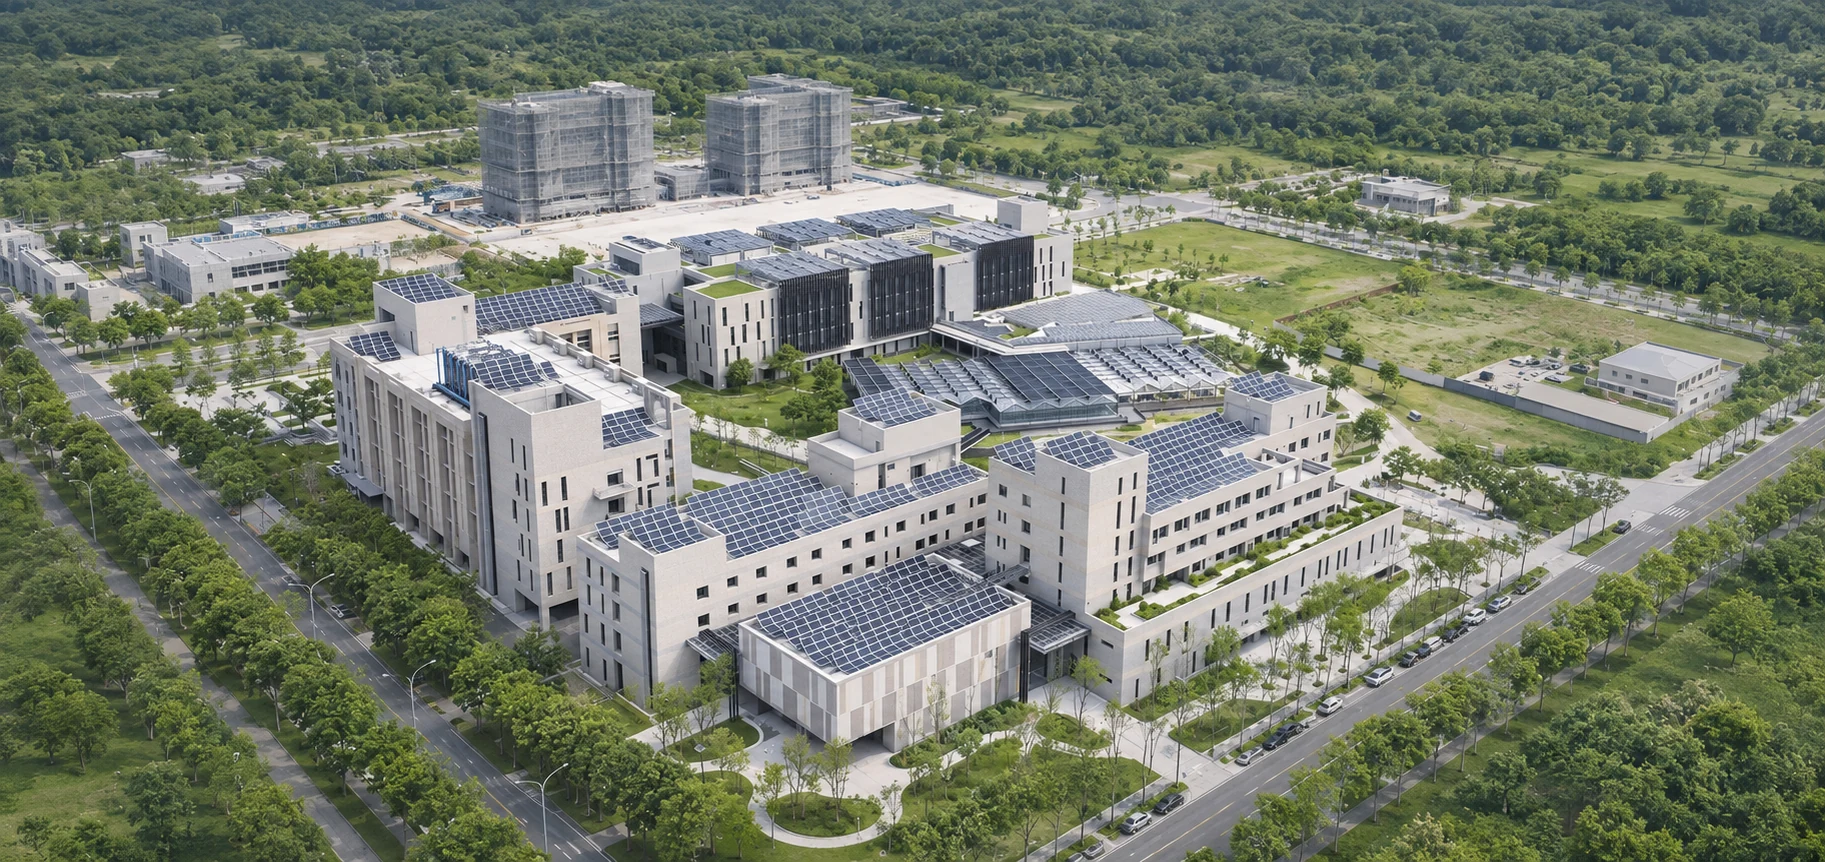
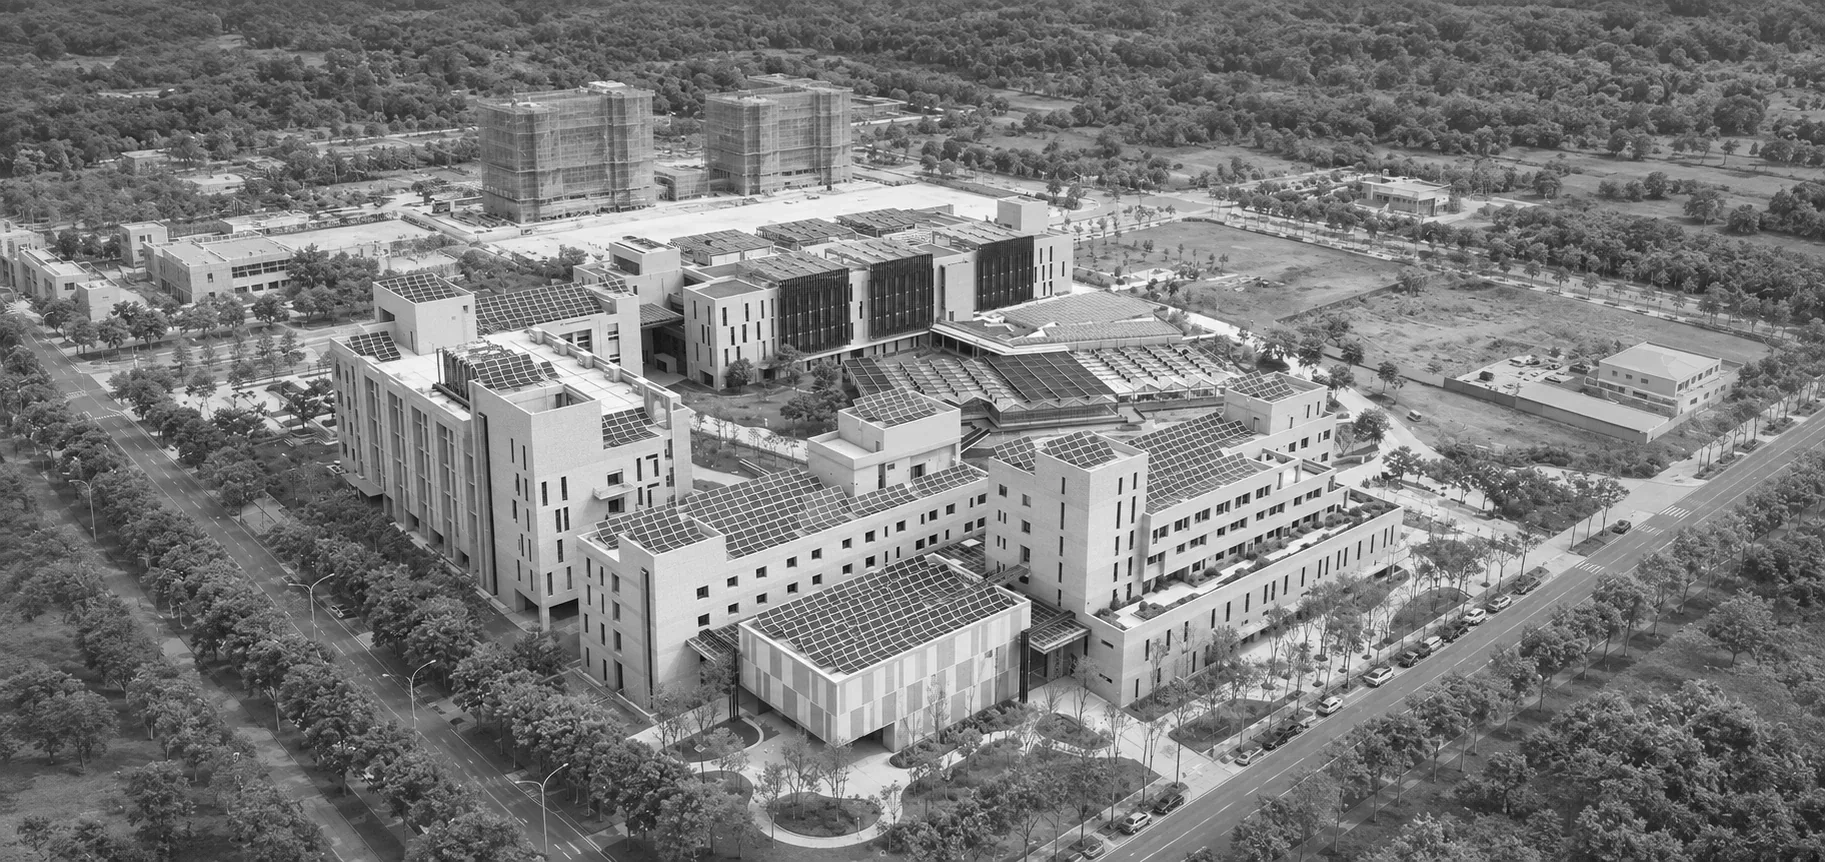
content: convert venue campus map to grayscale

diff --git a/README.md b/README.md
@@ -14,4 +14,4 @@ https://qracon.entangletech.tw/2026/
 
 ## 院區圖素材
 
-- `public/images/south-campus-layout.webp` 為中央研究院南院服務處提供的院區配置圖；`public/images/south-campus-map-redrawn.webp` 是參照該圖製作的示意重繪。素材依[南院服務處政府網站資料開放宣告](https://dscs.sinica.edu.tw/declaration)使用，來源資訊保留於此專案文件。
+- `public/images/south-campus-layout.webp` 為中央研究院南院服務處提供的院區配置圖；`public/images/south-campus-map-redrawn.webp` 是參照該圖製作的示意重繪，已轉為灰階以符合全站無色相的視覺規範。素材依[南院服務處政府網站資料開放宣告](https://dscs.sinica.edu.tw/declaration)使用，來源資訊保留於此專案文件。
